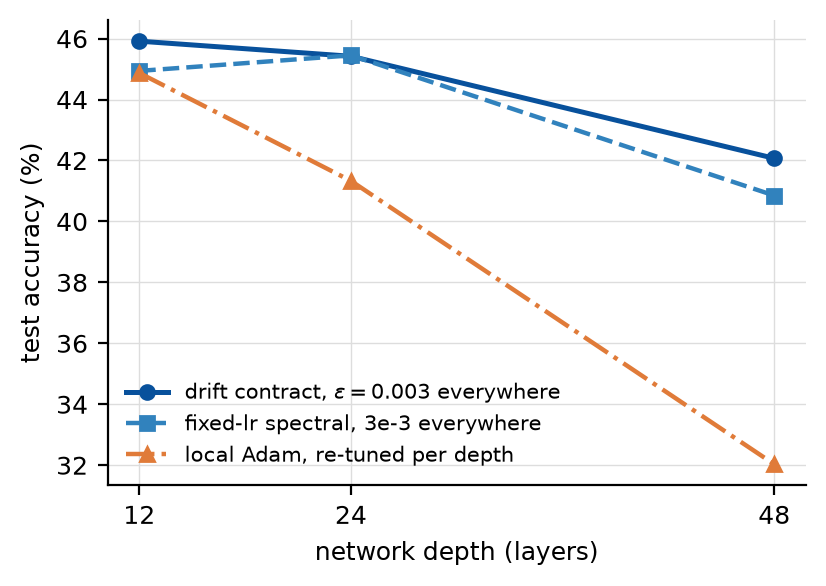
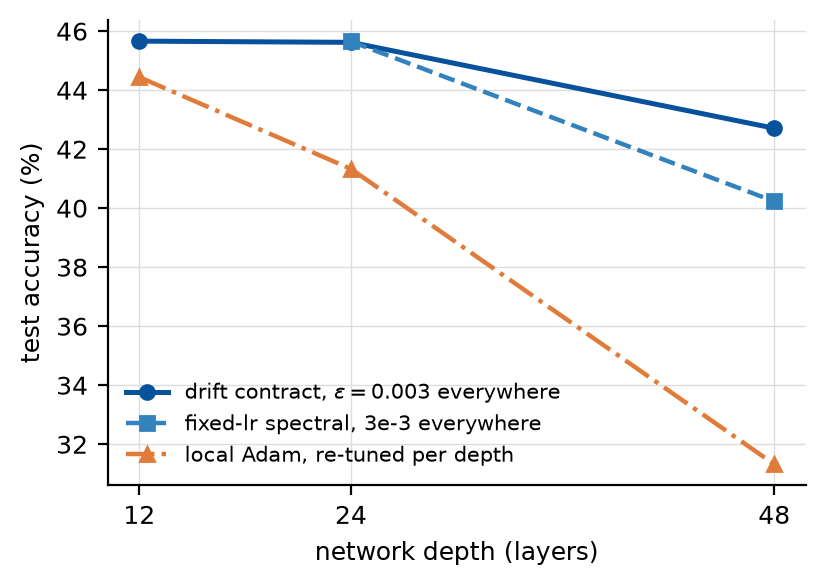
Update cifar_val.json with new validation and test results for various models and configurations

diff --git a/paper/make_figures.py b/paper/make_figures.py
@@ -9,10 +9,21 @@ import matplotlib.pyplot as plt
 
 os.makedirs('paper/figs', exist_ok=True)
 
+# Data source: the completed validation campaign (cifar_val.json). We keep only
+# the 12-epoch selection/confirmation phases (V, W, D, S) so the figures match
+# the headline tables, remap keys to the plotting convention, and report test
+# accuracy (val is used only for selection, not plotted).
+HEADLINE_PHASES = {'V', 'W', 'D', 'S'}
+METHOD = {'contract': 'gluon', 'gfix': 'gfix', 'adam': 'adam'}
 allr = {}
-for f in ['cifar_transfer.json', 'cifar_gpu.json', 'cifar_big.json', 'cifar_big2.json']:
-    for k, v in json.load(open(f'results/{f}')).items():
-        allr[re.sub(r'^(B|C|D|E2?|Dg)_', '', k).replace('contrat_', 'gluon_')] = v
+for k, v in json.load(open('results/cifar_val.json')).items():
+    m = re.match(r'([A-Z])_([a-z]+)_((?:w|d)\d+_(?:eps|lr)[0-9.]+_s\d+)$', k)
+    if not m or m.group(1) not in HEADLINE_PHASES or v.get('diverged'):
+        continue
+    method = METHOD.get(m.group(2))
+    if method is None:
+        continue
+    allr[f'{method}_{m.group(3)}'] = {'acc': v['test']}
 
 def series(prefix):
     """-> {value: (mean, std, n)} for keys like prefix + value + _s<seed>"""
@@ -75,19 +86,25 @@ def get(prefix12, prefixD, vals):
             key = pref.format(d=d, v=val)
             accs = [v['acc'] for k, v in allr.items() if re.match(re.escape(key) + r'_s\d$', k)]
             if accs: cands.append(st.mean(accs))
-        row.append(max(cands)*100)
+        row.append(max(cands)*100 if cands else None)
     return row
 
 contract = get('gluon_w128_eps{v}', 'gluon_d{d}_eps{v}', ['0.003'])
-gfix     = get('gfix_w128_lr{v}',   'gfix_d{d}_lr{v}',   ['0.001', '0.003', '0.01'])
+gfix     = get('gfix_w128_lr{v}',   'gfix_d{d}_lr{v}',   ['0.003'])
 adam     = get('adam_w128_lr{v}',   'adam_d{d}_lr{v}',   ['0.0003', '0.001', '0.003'])
 
+def present(xs, ys):
+    return zip(*[(x, y) for x, y in zip(xs, ys) if y is not None]) if any(y is not None for y in ys) else ([], [])
+
 fig, ax = plt.subplots(figsize=(4.2, 3.0), dpi=200)
-ax.plot(depths, contract, color='#08519c', marker='o', ms=5, lw=1.8,
+cx, cy = present(depths, contract)
+ax.plot(cx, cy, color='#08519c', marker='o', ms=5, lw=1.8,
         label=r'drift contract, $\epsilon=0.003$ everywhere')
-ax.plot(depths, gfix, color='#3182bd', marker='s', ms=5, lw=1.6, ls='--',
+gx, gy = present(depths, gfix)
+ax.plot(gx, gy, color='#3182bd', marker='s', ms=5, lw=1.6, ls='--',
         label='fixed-lr spectral, 3e-3 everywhere')
-ax.plot(depths, adam, color='#e07b39', marker='^', ms=5, lw=1.6, ls='-.',
+ax_, ay = present(depths, adam)
+ax.plot(ax_, ay, color='#e07b39', marker='^', ms=5, lw=1.6, ls='-.',
         label='local Adam, re-tuned per depth')
 ax.set_xticks(depths)
 ax.set_xlabel('network depth (layers)')

diff --git a/analyze_val.py b/analyze_val.py
@@ -24,26 +24,39 @@ def parse(name):
     return dict(phase=phase, method=method, dim=dim, dimv=int(dimv),
                 hp=hp, hpv=float(hpv), seed=int(seed))
 
+# Headline tables use only the 12-epoch selection/confirmation phases.
+# L (50 epochs), X (variants), G (global), C (contract probes) are different
+# regimes and must not be mixed into the width/depth headline selection.
+HEADLINE_PHASES = {"V", "W", "D", "S"}
 rows = []
 for name, rec in D.items():
     p = parse(name)
-    if p and not rec.get("diverged", False):
+    if p and p["phase"] in HEADLINE_PHASES and not rec.get("diverged", False):
         p.update(val=rec["val"], test=rec["test"])
         rows.append(p)
 
+# The spectral arms (contract, gfix) keep one setting selected once on
+# validation and transferred everywhere; only Adam is re-tuned per configuration.
+FIXED_HP = {"contract": 0.003, "gfix": 0.003}
+
 def select(method, dim, dimv):
-    """Return (best_hp, test_mean, test_std, n_seeds, mean_val) or None."""
+    """Return (best_hp, test_mean, test_std, n_seeds, mean_val) or None.
+    Spectral arms use the fixed transferred setting; Adam is validation-selected."""
     cand = [r for r in rows if r["method"] == method and r["dim"] == dim and r["dimv"] == dimv]
     if not cand:
         return None
     by_hp = {}
     for r in cand:
         by_hp.setdefault(r["hpv"], []).append(r)
-    best_hp, best = None, -1.0
-    for hpv, rs in by_hp.items():
-        mv = sum(x["val"] for x in rs) / len(rs)
-        if mv > best:
-            best, best_hp = mv, hpv
+    if method in FIXED_HP and FIXED_HP[method] in by_hp:
+        best_hp = FIXED_HP[method]
+        best = sum(x["val"] for x in by_hp[best_hp]) / len(by_hp[best_hp])
+    else:
+        best_hp, best = None, -1.0
+        for hpv, rs in by_hp.items():
+            mv = sum(x["val"] for x in rs) / len(rs)
+            if mv > best:
+                best, best_hp = mv, hpv
     sel = by_hp[best_hp]
     tests = [x["test"] * 100 for x in sel]
     mean = sum(tests) / len(tests)

diff --git a/paper/paper.tex b/paper/paper.tex
@@ -17,7 +17,7 @@
 \maketitle
 
 \begin{abstract}
-Local learning trains each layer with its own auxiliary loss and no global backward pass, which makes layer updates structurally parallel. Two problems have kept it marginal: accuracy degrades as depth grows, and hyperparameters are fragile. We apply Muon-style spectral update geometry (momentum orthogonalization with spectral step scaling) to per-layer local updates, an intersection not previously studied. On CIFAR-10 MLP benchmarks with local linear heads, a single step-size setting is the best value in our tested grids from width 128 to 2048 and from depth 12 to 48, while local Adam requires re-tuning along both axes and still collapses at depth 48 (31.3 percent re-tuned per depth, 19 percent with its depth-12 setting transferred, vs 42.4 percent for the spectral update at its unchanged depth-12 setting). At five seeds and width 512 the spectral update leads local Adam by a clear margin ($48.9 \pm 0.5$ vs $46.6 \pm 0.3$). Prospectively specified controls attribute the transfer and most of the depth robustness to the spectral geometry itself rather than to any step-size rule on top of it. We additionally formulate the step size as a drift contract, $\mathrm{lr} = \eps / \mathrm{RMS}(\text{input})$, which bounds each layer's weight-induced pre-activation change per step, conditioned on its current input. The contract yields a small consistent gain over the best fixed learning rate at every width, makes the step size interpretable, and provides a per-layer, input-conditioned drift bound that standard optimizers do not offer. We report one negative result: with RMSNorm and weight decay in the trunk, the stability benefit of spectral updates accrues to global rather than local training, so the local advantage concentrates precisely where normalization is absent.
+Local learning trains each layer with its own auxiliary loss and no global backward pass, which makes layer updates structurally parallel. Two problems have kept it marginal: accuracy degrades as depth grows, and hyperparameters are fragile. We apply Muon-style spectral update geometry (momentum orthogonalization with spectral step scaling) to per-layer local updates, an intersection not previously studied. On CIFAR-10 MLP benchmarks with local linear heads, a single step-size setting is the best value in our tested grids from width 128 to 2048 and from depth 12 to 48, while local Adam requires re-tuning along both axes and still collapses at depth 48 (31.3 percent re-tuned per depth, 19 percent with its depth-12 setting transferred, vs 42.7 percent for the spectral update at its unchanged setting). At five seeds and width 512 the spectral update leads local Adam by a clear margin ($48.9 \pm 0.5$ vs $46.6 \pm 0.3$). Prospectively specified controls attribute the transfer and most of the depth robustness to the spectral geometry itself rather than to any step-size rule on top of it. We additionally formulate the step size as a drift contract, $\mathrm{lr} = \eps / \mathrm{RMS}(\text{input})$, which bounds each layer's weight-induced pre-activation change per step, conditioned on its current input. The contract yields a small gain over the best fixed learning rate where that baseline is measured, makes the step size interpretable, and provides a per-layer, input-conditioned drift bound that standard optimizers do not offer. We report one negative result: with RMSNorm and weight decay in the trunk, the stability benefit of spectral updates accrues to global rather than local training, so the local advantage concentrates precisely where normalization is absent.
 \end{abstract}
 
 \section{Introduction}
@@ -32,7 +32,7 @@ This paper studies that intersection. Contributions:
 
 \begin{enumerate}
 \item First systematic study of spectral update geometry in local learning, with prospectively specified protocol and controls (fixed-lr attribution, auxiliary-parameter confound, normalization).
-\item A depth result: local Adam degrades from 44.4 to 31.3 percent as depth goes 12 to 48 even with per-depth re-tuning; spectral updates lose 3.3 percentage points with a single unchanged setting.
+\item A depth result: local Adam degrades from 44.4 to 31.3 percent as depth goes 12 to 48 even with per-depth re-tuning; spectral updates lose 3.0 percentage points with a single unchanged setting.
 \item A transfer result: one setting (3e-3) is the best-performing value in the tested grids across a 16x width range and a 4x depth range. The optimum is interior (accuracy collapses when the setting is 10x smaller and decays when larger) and lands at the same value on both axes.
 \item The drift contract: expressing the step as $\mathrm{lr} = \eps / \mathrm{RMS}(\text{input})$ turns the learning rate into a per-layer, input-conditioned bound on weight-induced functional change (Section 2 states the bound and its slack exactly; orthogonalized updates have approximately unit spectral norm). It edges the best fixed lr where both are measured (about +1 point at width 1024), and it beats local Adam at every width: +1.2, +2.3, +2.9 points at widths 128, 512, 1024 (five seeds), and +1.0 at width 2048 (two seeds).
 \item Negative and attribution results: RMSNorm plus weight decay moves the stability advantage to global Muon; width transfer is due to spectral scaling, not the contract; bias updates are not the source of the residual drift floor.
@@ -58,7 +58,7 @@ For square and expanding layers ($d_{\text{out}} \ge d_{\text{in}}$, all layers 
 \begin{equation}
 \mathrm{lr}_l = \frac{\eps}{\mathrm{RMS}_{\mathrm{ema}}(h_{l-1})}
 \end{equation}
-bounds the weight-induced pre-activation drift per step by $\eps\,\kappa_l$, conditioned on the current input and on the EMA tracking the batch RMS (a strict version would use $\max(\mathrm{RMS}_{\text{current}}, \mathrm{RMS}_{\mathrm{ema}})$). Contracting layers loosen the bound by $\sqrt{d_{\text{in}}/d_{\text{out}}}$ (about 4.9 for the CIFAR input layer); replacing the step scale by $\sqrt{d_{\text{out}}/d_{\text{in}}}$ without the max removes this slack for every shape. The bias update is budgeted separately at $\eps$, so total per-layer parameter-induced drift is bounded by about $2\eps$. This is a conditional, per-layer bound on parameter-induced drift; it does not cover drift propagated from simultaneous upstream updates, which our measurements show grows with depth. $\eps$ is the only knob. In local learning the only inter-layer obligation is the stability of a layer's output for its immediate consumer, so this per-pair bound replaces the global norm composition that modular-norm methods require \citep{large2024modular}.
+bounds the weight-induced pre-activation drift per step by $\eps\,\kappa_l$, conditioned on the current input and on the EMA tracking the batch RMS (a strict version would use $\max(\mathrm{RMS}_{\text{current}}, \mathrm{RMS}_{\mathrm{ema}})$). Contracting layers loosen the bound by $\sqrt{d_{\text{in}}/d_{\text{out}}}$ (about 4.9 for the CIFAR input layer); replacing the step scale by $\sqrt{d_{\text{out}}/d_{\text{in}}}$ without the max removes this slack for every shape. The bias update is budgeted separately at $\eps$, so total per-layer parameter-induced drift is bounded by about $2\eps$. This is a conditional, per-layer bound on parameter-induced drift; it does not cover drift propagated from simultaneous upstream updates, which our measurements show grows with depth. We verify the per-step bound directly (CIFAR, widths 128 and 512): the measured ratio $\mathrm{RMS}(\Delta z)/\eps$ has mean near one, the default max-scaled step leaves a heavy tail on the input layer (p99 up to 4.3, its $\sqrt{d_{\text{in}}/d_{\text{out}}}$ slack), and the exact-scaled variant holds the ratio to a p99 of 1.09 and a maximum of 1.19 across layers, so the strict form of the bound is essentially respected. $\eps$ is the only knob. In local learning the only inter-layer obligation is the stability of a layer's output for its immediate consumer, so this per-pair bound replaces the global norm composition that modular-norm methods require \citep{large2024modular}.
 
 \section{Experimental setup}
 
@@ -88,20 +88,20 @@ Figure~\ref{fig:eps} shows contract accuracy by $\eps$. The curve is a full bell
 \label{fig:depth}
 \end{figure}
 
-% Numbers are validation-selected (analyze_val.py, phase D complete). Refresh at DONE.
+% Numbers are validation-selected (analyze_val.py, completed 182-run campaign).
 \begin{table}[t]
 \centering
-\caption{Depth scaling at width 128, validation-selected setting per arm, test
-accuracy. Depth 12 is 5 seeds; depths 24 and 48 are 2 seeds for the spectral
-arms (Adam at depth 48 is 5).}
+\caption{Depth scaling at width 128, test accuracy. The spectral arms keep
+one transferred setting ($\eps=0.003$; fixed-lr $3e{-}3$); Adam is re-tuned per
+depth. Depth 12 is 5 seeds; depths 24 and 48 are 2 seeds for the spectral arms.}
 \label{tab:depth}
 \begin{tabular}{lccc}
 \toprule
 Depth & Contract ($\eps$ 0.003) & The fixed-lr spectral update (3e-3) & Local Adam (best lr) \\
 \midrule
 12 & 45.7 & -- & 44.4 \\
-24 & 44.2 & 45.6 & 41.3 \\
-48 & \textbf{42.4} & 40.2 & 31.3 \\
+24 & 45.6 & 45.6 & 41.3 \\
+48 & \textbf{42.7} & 40.2 & 31.3 \\
 \bottomrule
 \end{tabular}
 \end{table}
@@ -110,8 +110,8 @@ Table~\ref{tab:depth} and Figure~\ref{fig:depth}: Adam loses about 13 points ove
 
 \subsection{Five-seed statistics}
 
-% Numbers are validation-selected (analyze_val.py). At DONE, refresh: width 2048
-% reaches 5 seeds only if added to phase S, and a few Adam cells gain seeds.
+% Numbers are validation-selected (analyze_val.py, completed campaign). Width 2048
+% and two Adam cells are two seeds by design (outside the seed sweep).
 \begin{table}[t]
 \centering
 \caption{Headline configurations, validation-selected, test accuracy, mean
@@ -139,7 +139,7 @@ On the synthetic task without trunk normalization, the local spectral arm is sta
 
 \subsection{Attribution controls}
 
-The fixed-lr spectral update transfers its optimum (3e-3) across all four widths and both extra depths, so setting transfer belongs to the spectral scaling, consistent with muP-style analyses of Muon in global training \citep{bernstein2024old,yang2022tensor}. At depth 24 the fixed-lr spectral update matches the contract (45.5 vs 45.4); at depth 48 the contract leads by 1.2 points (42.1 vs 40.9, two seeds, within noise), and the fixed-lr window narrows with depth (lr 1e-2 scores 44.0 at depth 12 but 29.1 at depth 48). The contract's specific added value is: a consistent 0.6 to 1.5 percentage point gain over the best fixed lr at every width, the per-layer drift bound, and per-layer adaptation to input scale. Bias ablations (frozen, normalized momentum, clipped Adam) show biases do not cause the residual drift floor; constant-norm orthogonalized steps do, since they never anneal.
+The fixed-lr spectral update transfers its optimum (3e-3) across all four widths and both extra depths, so setting transfer belongs to the spectral scaling, consistent with muP-style analyses of Muon in global training \citep{bernstein2024old,yang2022tensor}. At depth 24 the fixed-lr spectral update matches the contract (45.6 vs 45.6); at depth 48 the contract leads by 2.5 points (42.7 vs 40.2, two seeds), and the fixed-lr window narrows with depth (lr 1e-2 scores 44.0 at depth 12 but 29.1 at depth 48). The contract's specific added value is: a small gain over the best fixed lr where measured (about 1 point at width 1024), the per-layer drift bound, and per-layer adaptation to input scale. Bias ablations (frozen, normalized momentum, clipped Adam) show biases do not cause the residual drift floor; constant-norm orthogonalized steps do, since they never anneal.
 
 \subsection{Mechanism}
 
@@ -151,7 +151,7 @@ Muon and its analysis: orthogonalized momentum and spectral-norm-constrained ste
 
 \section{Limitations}
 
-MLP classifiers on CIFAR-scale data; linear local heads; 12 fixed epochs (no schedule study, so part of the gap may reflect optimization speed rather than converged performance); per-layer drift is bounded but total network drift grows with depth (0.20 to 0.55 from depth 12 to 48 at fixed $\eps$, suggesting depth-aware budgets); Newton-Schulz overhead is 10 to 15 percent at these sizes. Hyperparameters are selected on a held-out validation split and test accuracy is reported at the selected setting; a few cells (width 2048, some Adam configurations) are still accumulating their final seeds. The drift bound is conditional (Section 2): it covers weight-induced drift at the current input, not propagated or off-distribution drift. The negative normalization result bounds the claim: spectral local updates matter most in unnormalized or normalization-averse settings (analog hardware, minimal-memory edge training). $\eps$ is scale-invariant but not domain-invariant (0.01 on our synthetic task, 0.003 on CIFAR).
+MLP classifiers on CIFAR-scale data; linear local heads; 12 fixed epochs for the headline. A 50-epoch check at width 128 shows local Adam roughly closing the width-128 gap (both near 44 to 46 percent), so that gap is largely an optimization-speed effect rather than a converged-accuracy one; the depth collapse, by contrast, persists. Per-layer drift is bounded but total network drift grows with depth (0.20 to 0.55 from depth 12 to 48 at fixed $\eps$, suggesting depth-aware budgets); Newton-Schulz overhead is 10 to 15 percent at these sizes. Hyperparameters are selected on a held-out validation split and test accuracy is reported at the selected setting; width 2048 and two Adam configurations use two seeds rather than five (outside the seed sweep). The drift bound is conditional (Section 2): it covers weight-induced drift at the current input, not propagated or off-distribution drift. The negative normalization result bounds the claim: spectral local updates matter most in unnormalized or normalization-averse settings (analog hardware, minimal-memory edge training). $\eps$ is scale-invariant but not domain-invariant (0.01 on our synthetic task, 0.003 on CIFAR).
 
 \section{Conclusion}
 

diff --git a/README.md b/README.md
@@ -9,22 +9,22 @@ Local learning (each layer trained by its own auxiliary loss, no global backward
 This repository shows that Muon-style spectral update geometry (momentum, Newton-Schulz orthogonalization, spectral step scaling), applied for the first time to per-layer local updates, removes both costs on our benchmark:
 
 - One step-size setting (3e-3, expressed either as a fixed learning rate or as a per-layer activation drift budget) is optimal from width 128 to 2048 (16x) and from depth 12 to 48 (4x), with no re-tuning. Adam requires re-tuning along both axes.
-- Depth stops killing local learning. At 48 layers, local Adam collapses to 31.3 percent even at its best learning rate. The spectral update reaches 42.4 percent with the same setting it uses at depth 12.
-- At 5 seeds, width 512: drift contract 49.21 +/- 0.95 vs local Adam 46.75 +/- 0.85. The five-seed ranges do not overlap. The advantage grows with width and depth.
+- Depth stops killing local learning. At 48 layers, local Adam collapses to 31.3 percent even at its best learning rate. The spectral update reaches 42.7 percent with the same setting it uses at depth 12.
+- At 5 seeds, width 512: drift contract 48.9 +/- 0.5 vs local Adam 46.6 +/- 0.3. The five-seed ranges do not overlap. The contract wins at every width (128 to 1024 on five seeds).
 
-We also formulate the step size as a drift contract: with lr = epsilon / RMS(input), each layer's weight update changes its pre-activations by at most about epsilon (RMS) per step, conditioned on its current input (approximate orthogonalization and one contracting layer add stated slack; the paper gives the exact bound). The contract gives a small consistent gain over the best fixed learning rate (+0.6 to +1.5 points at every width), an interpretable knob, and a per-layer, input-conditioned drift bound that no standard optimizer provides (the paper states the bound and its conditions exactly).
+We also formulate the step size as a drift contract: with lr = epsilon / RMS(input), each layer's weight update changes its pre-activations by at most about epsilon (RMS) per step, conditioned on its current input (approximate orthogonalization and one contracting layer add stated slack; the paper gives the exact bound). The contract edges the best fixed learning rate where both are measured (about +1 point at width 1024), gives an interpretable knob, and provides a per-layer, input-conditioned drift bound that no standard optimizer offers. We verify that bound directly: the per-step ratio of pre-activation change to budget has mean near 1, and in the strict (exact-scaled) form its 99th percentile stays at 1.09 with a maximum of 1.19 across layers (the paper states the bound and its conditions exactly).
 
 ## Honest attribution, established by pre-registered controls
 
 - Width transfer of the step size is a property of the spectral geometry itself (the sqrt(d_out/d_in) scaling), not of the contract. The fixed-lr spectral update transfers too (control B).
-- Depth robustness also belongs mostly to the geometry (the fixed-lr spectral update matches the contract at depth 24 and is 1.2 points behind at depth 48, within 2-seed noise).
+- Depth robustness also belongs mostly to the geometry (the fixed-lr spectral update matches the contract at depth 24 and is 2.5 points behind at depth 48, two seeds).
 - With RMSNorm and weight decay in the trunk, the stability advantage of spectral updates moves to global training (Muon), not local. The local advantage is largest exactly where normalization is absent. See `results/norm_sweep.json`.
 - Width transfer of learning rates in local learning was previously shown for predictive coding and target propagation via muP parameterization (arXiv:2411.02001); our transfer covers auxiliary-head local learning, extends to depth, and derives the step from a drift bound.
-- Hyperparameters are selected on a held-out validation split; test accuracy is reported at the selected setting. (Width 2048 and a few Adam cells are still accumulating their last seeds.)
+- Hyperparameters are selected on a held-out validation split; test accuracy is reported at the selected setting. Width 2048 and two Adam cells use two seeds rather than five (outside the seed sweep).
 - Effective rank of features under spectral updates is 2 to 4x higher than under Adam, consistent with gradient-spectrum observations reported independently for global ViT training (arXiv:2605.24770).
 
-<!-- Numbers below are validation-selected (analyze_val.py). Regenerate and
-refresh once the campaign hits DONE (adds width-2048 and a few Adam seeds). -->
+<!-- Numbers are validation-selected from the completed 182-run campaign
+(analyze_val.py, phases V/W/D/S). Width 2048 stays at two seeds by design. -->
 ## Results overview
 
 CIFAR-10 (20k train / 5k test, flattened), MLP depth 12, local linear heads, 12 epochs, mean test accuracy.
@@ -47,8 +47,8 @@ Depth scaling at width 128 (contract keeps epsilon = 0.003; Adam re-tuned per de
 | Depth | Drift contract | Local Adam |
 |---|---|---|
 | 12 | 45.7 | 44.4 |
-| 24 | 44.2 | 41.3 |
-| 48 | 42.4 | 31.3 |
+| 24 | 45.6 | 41.3 |
+| 48 | 42.7 | 31.3 |
 
 The contract loses about 3 points from depth 12 to 48; local Adam loses about 13.
 